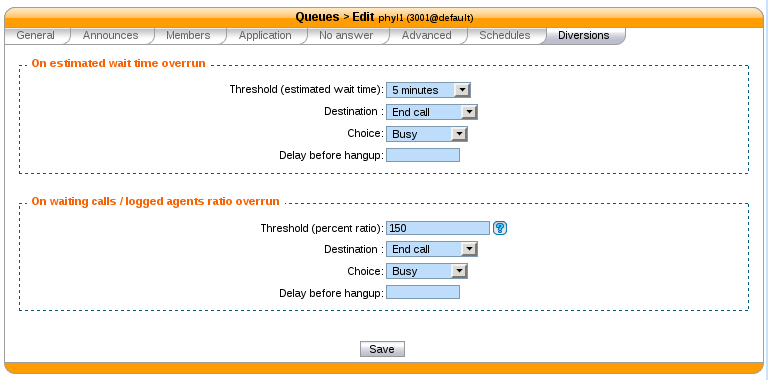
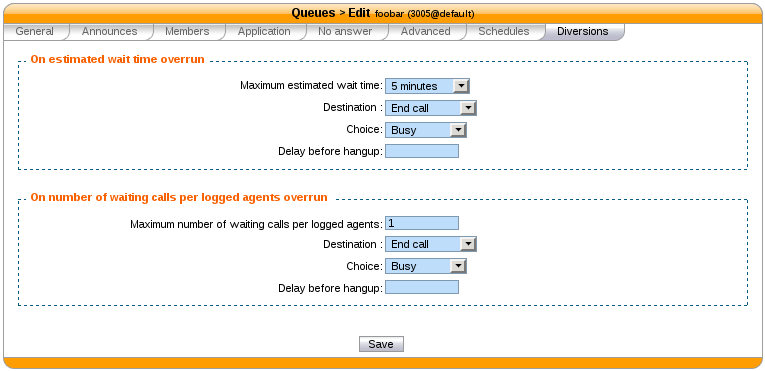
update queue diversions documentation

diff --git a/source/contact_center/queues/queues.rst b/source/contact_center/queues/queues.rst
@@ -66,6 +66,7 @@ Call can be diverted on no answer :
 * Fail : No agent was available to answer the call when call entered the queue (join an empty queue condition advanced tab)  or
   the call was queued and no agents was available to answer (Remove callers if there are no agents advanced tab)
 
+
 Diversions
 ==========
 
@@ -75,44 +76,47 @@ Calls are redirected using one of the two following scenarios:
 .. figure:: diversions.png
     :scale: 85%
 
+The diversion check is done only once per call, before the :ref:`preprocess subroutine <subroutine>` is
+executed and before the call enters the queue.
+
+In the following sections, a waiting call is a call that has entered the queue but has not yet been
+answered by a queue member.
+
 
 Estimated Wait Time Overrun
 ---------------------------
 
 When this scenario is used, the administrator can set a destination for calls when the average waiting time is over the threshold.
 
-When the threshold is reached, all new calls will be diverted unless there is currently no waiting calls.
-The average waiting time must then go below the threshold before new calls are freely accepted.
+.. note:: The average waiting time of a queue is updated only when a queue member answers a call.
 
-.. note:: The average waiting time is updated only when a queue member answers a call.
+If a new call arrives when there's no waiting calls, the call will be allowed to enter the queue.
 
 
-Waiting Calls / Logged Agents Ratio
---------------------------------------
+Number of Waiting Calls per Logged Agents Overrun
+-------------------------------------------------
 
-When this scenario is used, the administrator can set a destination when the call ratio is higher than the percent threshold.
-The call ratio is calculated with the following formula::
+When this scenario is used, the administrator can set a destination for calls when the number of waiting
+calls per logged agents is over the threshold.
 
-    call ratio = (number of waiting calls / logged agents) * 100
+The number of waiting calls includes the call for which the check is currently performed.
 
 The number of logged agents is the sum of agent members that are currently logged and user members.
 
+The maximum number of waiting calls per logged agents can have a fractional part.
+
 Here are a few examples::
 
-    Threshold: 100%
-    Waiting calls: 3
-    Logged agents: 2
-    Call ratio = (3 / 2) * 100 = 150%
-    Calls will be redirected
+    Maximum number of waiting calls per logged agent: 1
+    Current number of waiting calls: 2
+    Current number of logged agents: 2
+    Number of waitings calls per logged agent when a new call arrives: 3 / 2 = 1.5
+    Call will be redirected
 
+    Maximum number of waiting calls per logged agent: 0.5
+    Number of waiting calls: 5
+    Number of logged agents: 12
+    Number of waitings calls per logged agent when a new call arrives: 6 / 12 = 0.5
+    Call will not be redirected
 
-    Threshold: 120%
-    Waiting calls: 9
-    Logged agents: 12
-    Call ratio = (9 / 12) * 100 = 75%
-    Calls will not be redirected
-
-.. warning::
-
-  With a threshold under 100% and only one agent logged, no call will distributed
-  since one waiting call / one agent = 100%
+If a new call arrives when there's no waiting calls, the call will be allowed to enter the queue.
